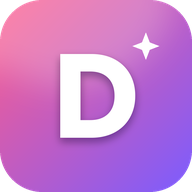
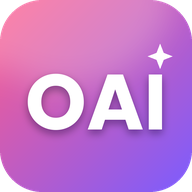
Icone OAI

Changed region(s): [[0.125, 0.1562, 0.9062, 0.75]]

diff --git a/index.html b/index.html
@@ -109,7 +109,7 @@ input[type=range]{width:100%;accent-color:var(--acc)}
 </head>
 <body>
 <header>
-  <div class="logo">D</div>
+  <img src="icon-192.png" alt="OAI" style="width:34px;height:34px;border-radius:9px">
   <h1>Djo AI</h1>
   <div class="keydot" id="keydot"><i></i><span>Clé</span></div>
 </header>
